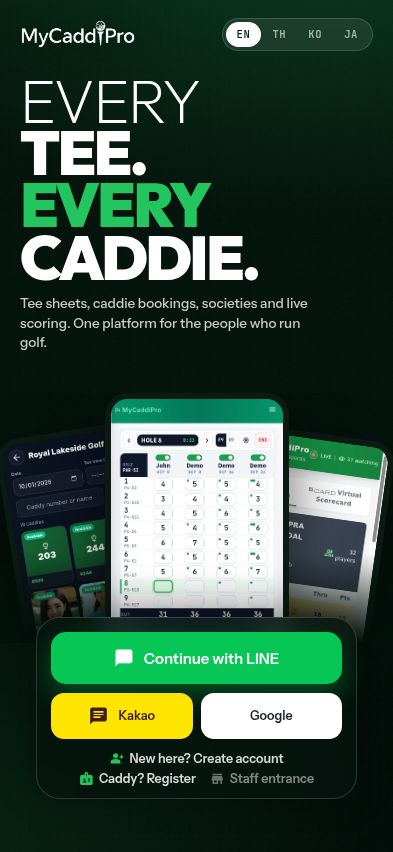
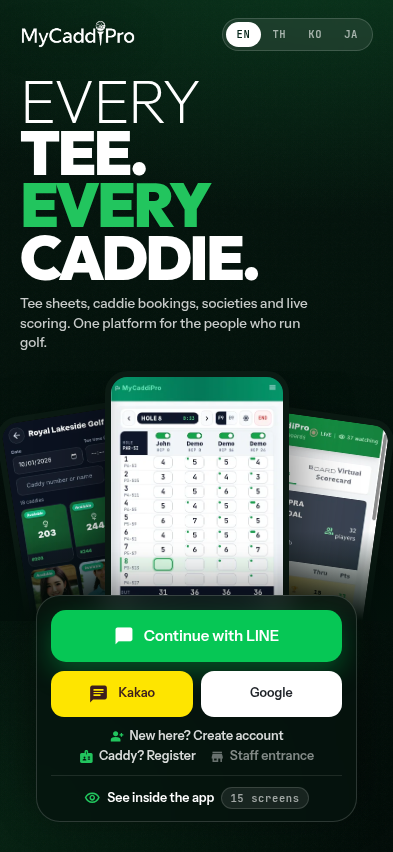
Login mockups: 'See inside the app · 15 screens' row under the dock, hero shots openable (keeps the App Preview)

Changed region(s): [[0.0, 0.4272, 1.0, 0.946], [0.8855, 0.9155, 0.916, 0.946], [0.0916, 0.9155, 0.1221, 0.946]]

diff --git a/design-mockups/login-billion/B-cinematic.html b/design-mockups/login-billion/B-cinematic.html
@@ -74,6 +74,10 @@ body{background:#03110B;color:#fff;font-family:'Instrument Sans',sans-serif;over
   .device .card .nm{display:flex;align-items:center;gap:8px}
   .device .card .av{width:22px;height:22px;border-radius:50%;background:#1f3a2b;font:700 9px/22px 'JetBrains Mono',monospace;text-align:center;color:#9ae6b4}
 }
+.see{display:flex;align-items:center;justify-content:center;gap:7px;margin-top:11px;padding-top:11px;border-top:1px solid rgba(255,255,255,.1);font:600 12.5px/1 'Instrument Sans',sans-serif;color:#fff;cursor:pointer}
+.see .ms{font-size:16px;color:#22c55e;font-variation-settings:'FILL' 0}
+.see b{font:600 10.5px/1 'JetBrains Mono',monospace;letter-spacing:.06em;color:rgba(255,255,255,.6);background:rgba(255,255,255,.08);border:1px solid rgba(255,255,255,.14);border-radius:999px;padding:5px 8px}
+.ph,.desk{cursor:pointer}.ph:hover,.desk:hover{outline:2px solid #22c55e;outline-offset:3px}
 </style></head><body>
 <div class="root"><div class="photo"></div><div class="scrim"></div>
   <div class="top">
@@ -91,6 +95,7 @@ body{background:#03110B;color:#fff;font-family:'Instrument Sans',sans-serif;over
         <button class="btn line"><span class="ms">chat_bubble</span>Continue with LINE</button>
         <div class="alt"><button class="btn kakao"><span class="ms">chat</span>Kakao</button><button class="btn google">Google</button></div>
         <div class="links"><span><span class="ms">person_add</span>New here? Create account</span><span><span class="ms">badge</span>Caddy? Register</span><span class="staff"><span class="ms">store</span>Staff entrance</span></div>
+    <div class="see"><span class="ms">visibility</span>See inside the app<b>15 screens</b></div>
       </div>
     </div>
     <div class="device">

diff --git a/design-mockups/login-billion/A-typographic.html b/design-mockups/login-billion/A-typographic.html
@@ -71,6 +71,11 @@ body{background:#03110B;color:#fff;font-family:'Instrument Sans',sans-serif;over
   .stage:after{height:160px}
   .dock{position:relative;width:390px;margin:-54px 0 -90px;z-index:5}
 }
+.see{display:flex;align-items:center;justify-content:center;gap:7px;margin-top:11px;padding-top:11px;border-top:1px solid rgba(255,255,255,.1);font:600 12.5px/1 'Instrument Sans',sans-serif;color:#fff;cursor:pointer}
+.see .ms{font-size:16px;color:#22c55e;font-variation-settings:'FILL' 0}
+.see b{font:600 10.5px/1 'JetBrains Mono',monospace;letter-spacing:.06em;color:rgba(255,255,255,.6);background:rgba(255,255,255,.08);border:1px solid rgba(255,255,255,.14);border-radius:999px;padding:5px 8px}
+.ph,.desk{cursor:pointer}.ph:hover,.desk:hover{outline:2px solid #22c55e;outline-offset:3px}
+@media (max-width:370px){.stage{height:222px}.sub{margin-top:8px}}
 </style></head><body>
 <div class="root"><div class="bg"></div><div class="grain"></div>
   <div class="top">
@@ -91,6 +96,7 @@ body{background:#03110B;color:#fff;font-family:'Instrument Sans',sans-serif;over
     <button class="btn line"><span class="ms">chat_bubble</span>Continue with LINE</button>
     <div class="alt"><button class="btn kakao"><span class="ms">chat</span>Kakao</button><button class="btn google">Google</button></div>
     <div class="links"><span><span class="ms">person_add</span>New here? Create account</span><span><span class="ms">badge</span>Caddy? Register</span><span class="staff"><span class="ms">store</span>Staff entrance</span></div>
+    <div class="see"><span class="ms">visibility</span>See inside the app<b>15 screens</b></div>
     </div></div>
   </div>
   </div>

diff --git a/design-mockups/login-billion/C-split.html b/design-mockups/login-billion/C-split.html
@@ -58,6 +58,10 @@ body{background:#F4F6F2;color:#0F1A14;font-family:'Instrument Sans',sans-serif;o
   .wall .ph.l{left:60px;transform:translateY(-38%) rotate(-5deg)}
   .wall .ph.r{left:230px;transform:translateY(-16%) rotate(4deg)}
 }
+.see{display:flex;align-items:center;justify-content:center;gap:7px;margin-top:11px;padding-top:11px;border-top:1px solid #E6EBE3;font:600 12.5px/1 'Instrument Sans',sans-serif;color:#0F1A14;cursor:pointer}
+.see .ms{font-size:16px;color:#16a34a;font-variation-settings:'FILL' 0}
+.see b{font:600 10.5px/1 'JetBrains Mono',monospace;letter-spacing:.06em;color:#4B5B50;background:#F4F6F2;border:1px solid #DCE3DA;border-radius:999px;padding:5px 8px}
+.ph,.desk{cursor:pointer}.ph:hover,.desk:hover{outline:2px solid #16a34a;outline-offset:3px}
 </style></head><body>
 <div class="root">
   <div class="top">
@@ -78,6 +82,7 @@ body{background:#F4F6F2;color:#0F1A14;font-family:'Instrument Sans',sans-serif;o
       <button class="btn line"><span class="ms">chat_bubble</span>Continue with LINE</button>
       <div class="alt"><button class="btn kakao"><span class="ms">chat</span>Kakao</button><button class="btn google">Google</button></div>
       <div class="links"><span><span class="ms">person_add</span>New here? Create account</span><span><span class="ms">badge</span>Caddy? Register</span><span class="staff"><span class="ms">store</span>Staff entrance</span></div>
+    <div class="see"><span class="ms">visibility</span>See inside the app<b>15 screens</b></div>
     </div>
   </div>
 </div>
